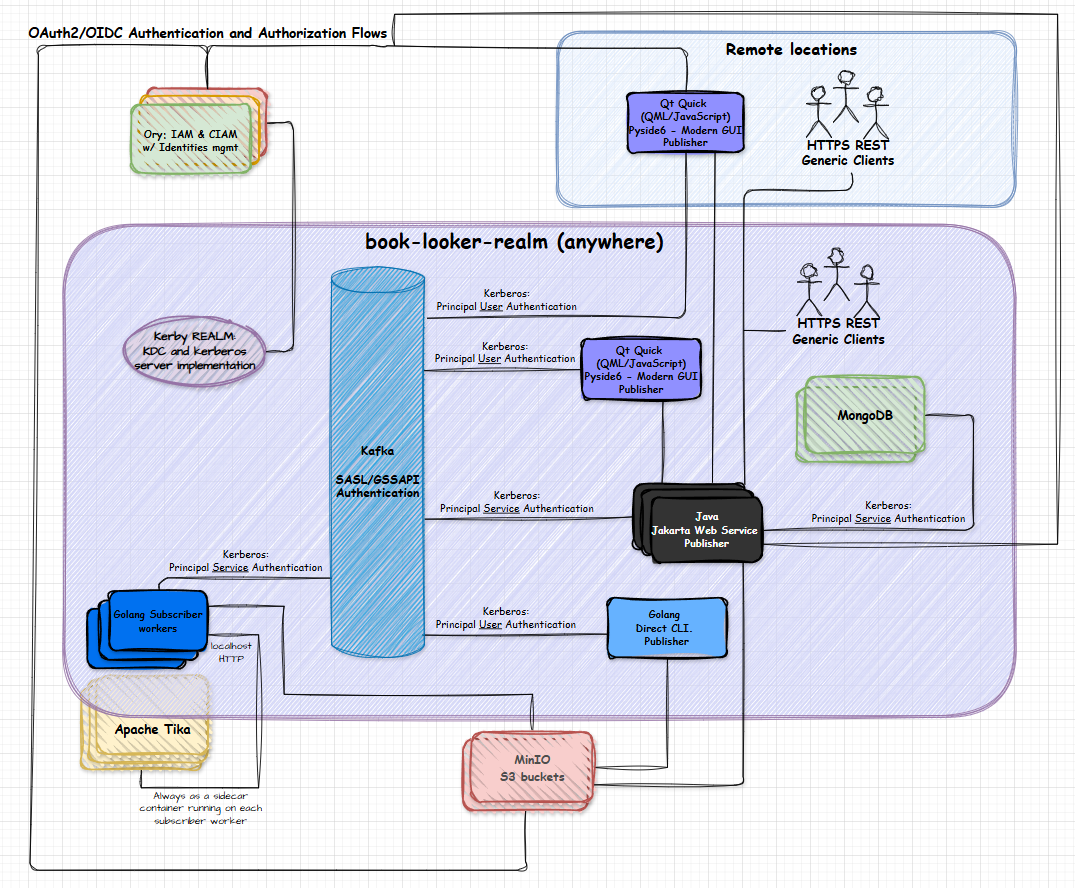
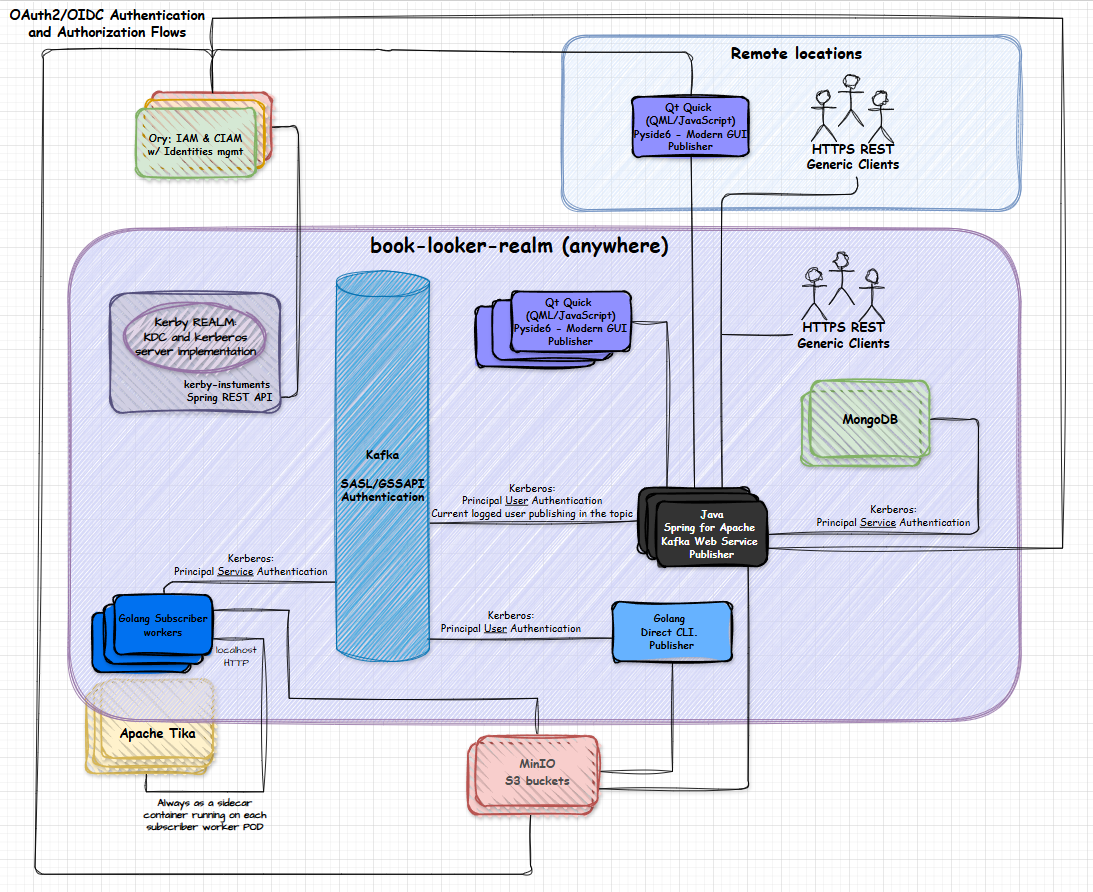
chore: update doc

Changed region(s): [[0.0, 0.0, 1.0, 0.973], [0.8288, 0.7905, 0.9209, 0.8209]]

diff --git a/README.md b/README.md
@@ -7,9 +7,10 @@
 ### Overview
 
 **Kafka:**
-- V4 Kafka Broker with SASL/GSSAPI authentication.
+- Kafka V3.3.8 Broker with SASL/GSSAPI authentication. (v4.0.0 support not released yet in [Spring for Apache Kafka](https://spring.io/projects/spring-kafka#support))
 
-**Java (Wildfly) Jakarta EE REST Web Service:**
+**Java Spring for Apache Kafka REST Web Service:**
+- Spring Data MongoDB for data persistence, management, and search.
 - User authentication with Kerberos with SSO (Single Sign-On) support.
 - Oauth2 authorization support.
 - Docs/Archive uploader management service (abstracting all S3 details).
@@ -18,27 +19,23 @@
 - Search capabilities (catalog and metadatas).
 - Translations (languages) service.
 - Information templates management.
-- MongoDB for data persistence, management, and search.
-- Kafka client: Publisher. Always using his service principal for authentication to Broker (independently of logged user on the service).
+- Kafka client: Publisher. Use the user principal of the current logged user for authentication to Broker.
 
 
 **Python Qt Quick (QML/JavaScript) client GUI:**
 - User authentication with Kerberos with SSO (Single Sign-On) support.
-- Client (GUI FrontEnd) for the Jakarta EE REST Web Service.
-- Kafka client: Publisher. Always getting the Broker connection information from the Jakarta EE REST Web Service.
-- Kafka client: Publisher. Always connect and authenticate to the Broker using the user principal (from current successfully logged user).
+- Client (GUI FrontEnd) for the Spring for Apache Kafka REST Web Service.
 - Qt Quick app in remote locations: Alternative ways to get Kerberos tickets, via JWT or OTP mechanisms.
 
 **Golang Direct CLI:**
 - User authentication with Kerberos with SSO (Single Sign-On) support.
-- CLI without support to Jakarta EE REST Web Service.
+- CLI without support to Spring for Apache Kafka REST Web Service.
 - CLI with direct access to S3 buckets.
 - Kafka client: Publisher. Always connect and authenticate to the Broker using the user principal (from current successfully logged user).
 - Can be used in files batch process, automate tasks, or other integrations.
 
 **Golang Subscriber worker:**
 - Service authentication with Kerberos service principal.
-- Kafka client: Subscriber. Always getting the Broker connection information from the Jakarta EE REST Web Service.
 - Kafka client: Subscriber. Always connect and authenticate to the Broker using his service principal.
 - MinIO S3 client.
 - Tika (sidecar) Server client: Extract text and metadata from files and handle all other Tika features.
@@ -49,6 +46,10 @@
 - KDC with: in-memory, Mavibot(MVCC BTree) or JSON backends to store data (principals and keys).
 - Preauth mechanism using JWT or OTP mechanism to request TGT and Service-Tickets.
 - SASL support and more.
+
+**kerby-instruments**: https://github.com/mesb/kerby-instruments
+- Java spring boot REST API for Apache Kerby.
+- Remote Kerberos administration, instrumentation, metrics and telemetry.
 
 **Ory ecosystem:**
 >
